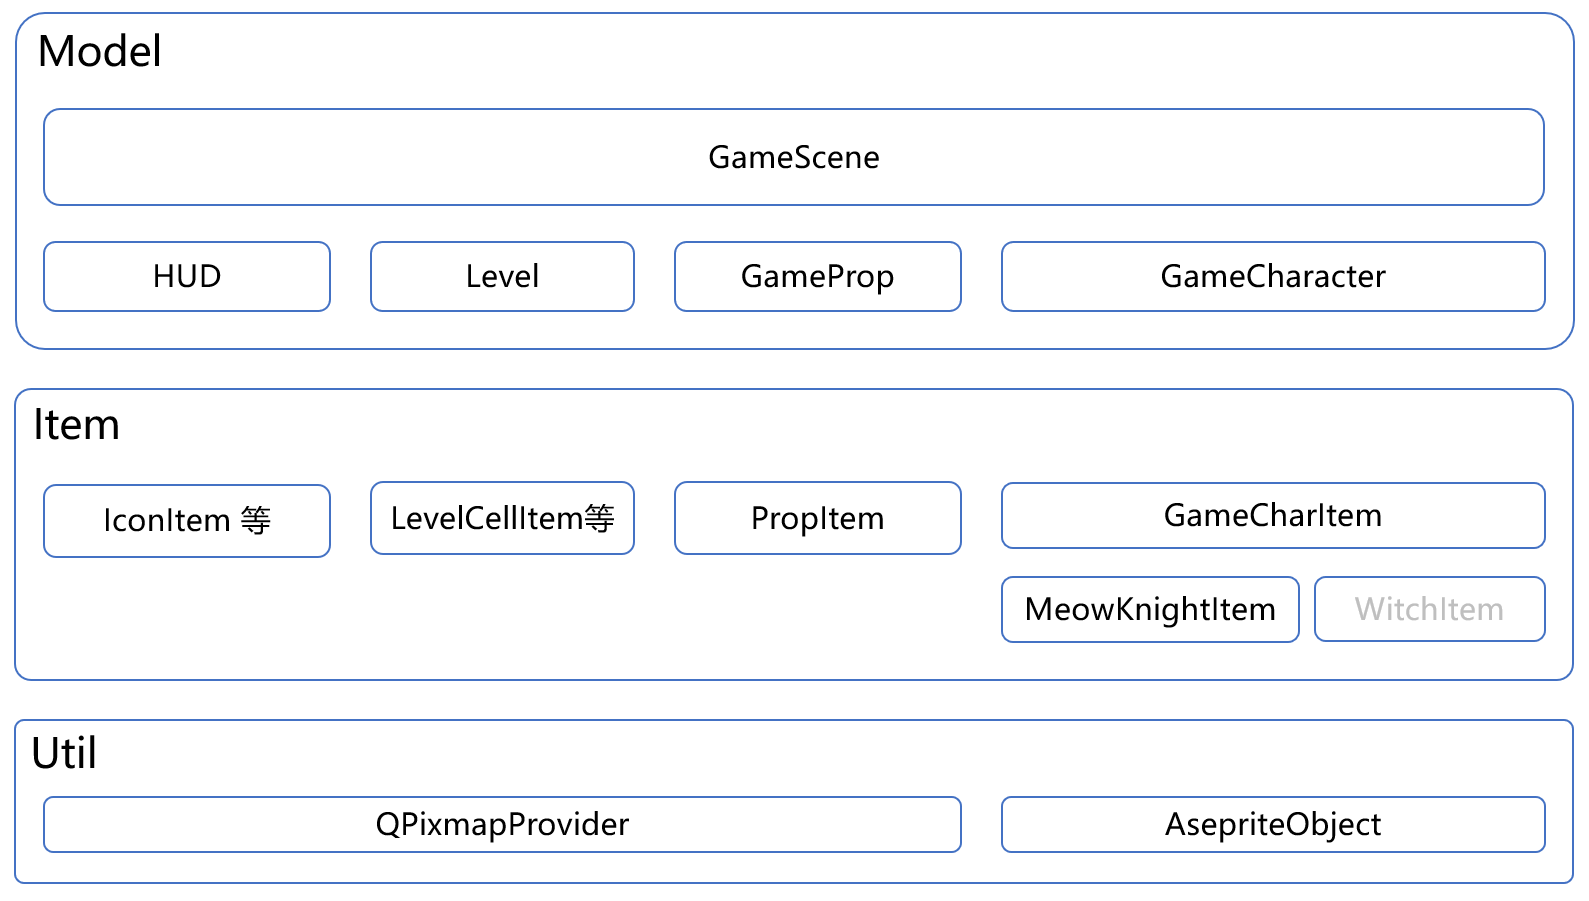
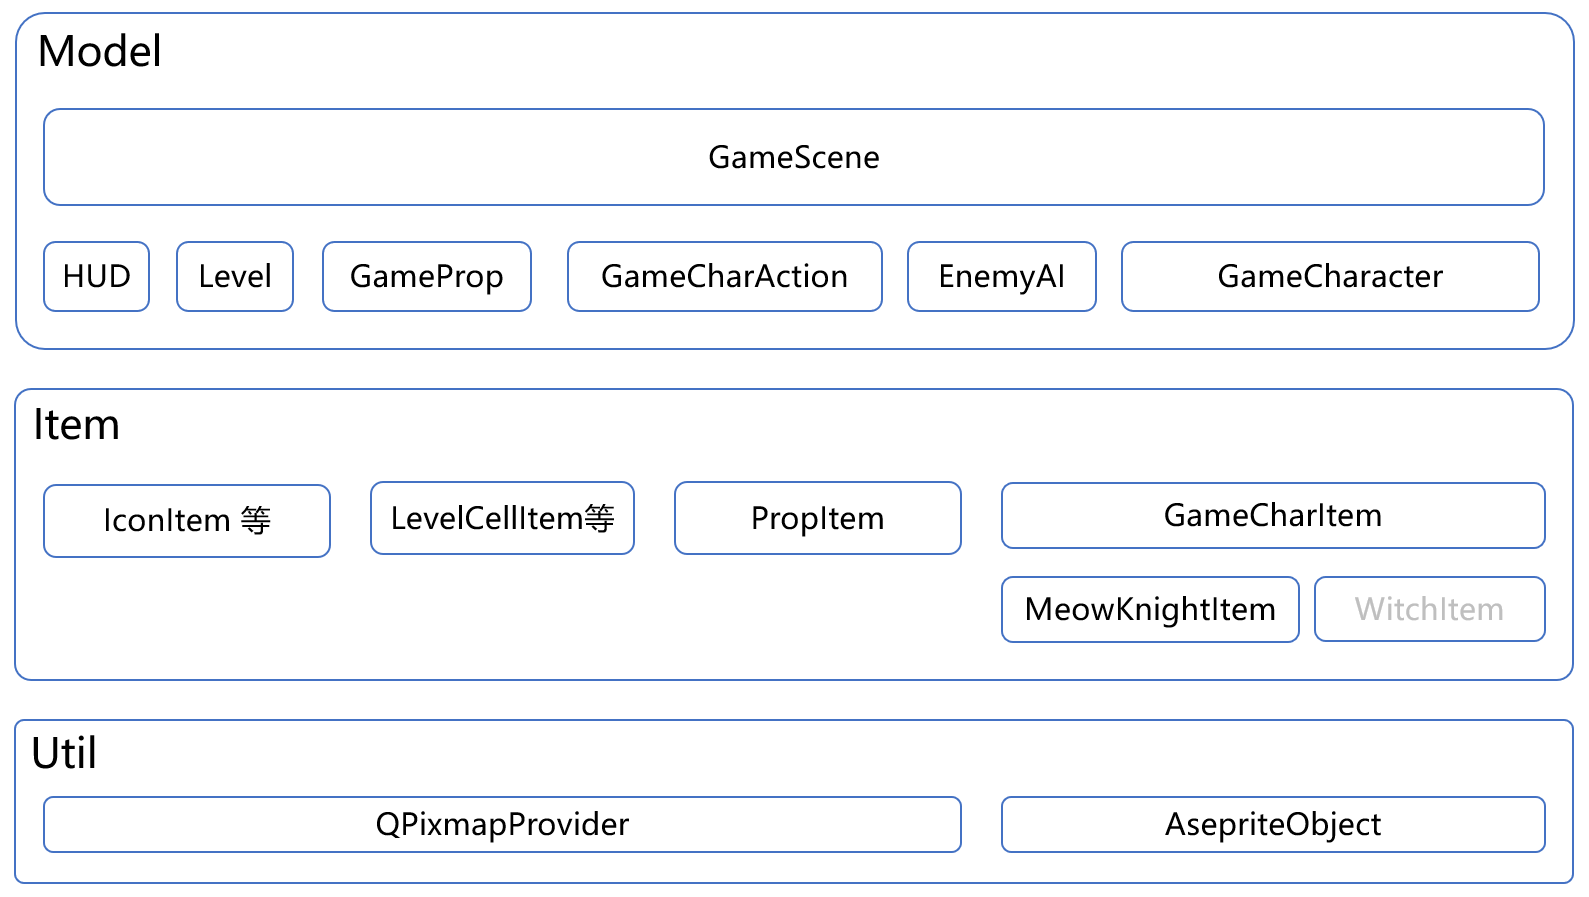
sync

diff --git a/doc/文档.md b/doc/文档.md
@@ -61,7 +61,7 @@ HUD指示：
 
 
 
-#### Util部分
+#### Util模块
 
 ##### QPixmapProvider
 
@@ -79,11 +79,201 @@ HUD指示：
 
 
 
-#### Item部分
+#### Item模块
+
+这个模块的所有对象继承自`QGrphicsItem`，部分继承了`QObject`以启用动画。
+
+这个模块是对基本图片资源的使用，支持动画，实现了`Model`所需要的函数，向`Model`模块提供服务。但是改模块并不关心各个图片在游戏中应该出现的展示大小和坐标位置，使用图片素材本身的大小和屏幕坐标。
+
+详细介绍如下：
+
+##### GameCharItem
+
+这个类是一个接口类，要求实现游戏角色所需的各种动画，包含如下接口/动画
+
+* idle：待机
+* moveTo：移动
+* attack：攻击
+* takeDamage：收到伤害
+* healed：得到治疗
+* death：死亡
+* dodge：闪避
+* setTowards：设置朝向
+
+
+
+实现这些接口的有：
+
+* MeowKnightItem：就是我们的猫猫骑士
+* ~~WhichItem~~：计划但还没有实现的女巫角色，有了猫还能没有女巫？
 
 
 
 
+
+##### PropItem
+
+地面上的生成物类，向`GameProp`类提供服务，目前支持的有：
+
+* 石头：<img src="pic/7.png">
+* 箱子：<img src="pic/8.png">
+* 治疗魔法石：<img src="pic/9.png">
+
+
+
+##### 向Level提供服务的类
+
+有两个类向地形`Level`类提供服务：
+
+* `LevelCellItem`：地形格子类，目前有如下两类格子：
+
+  * 草地：最普通的地形。<img src="pic/10.png">
+  * 石板：使角色减速。<img src="pic/11.png">
+
+* `CellIndicatorItem`：单元格指示类，用来指明要选择的格子。
+
+  <img src="pic/12.png">
+
+
+
+##### 向HUD提供服务的类
+
+包含一个按钮`ButtonItem`和图标`IconItem`。效果如下：
+
+<img src="pic/13.png">         <img src="pic/14.png">
+
+
+
+除了这个还有其他一些UI模块的类。
+
+
+
+### Model模块
+
+这一模块的大部分类继承自`QObject`，使用下层模块提供的服务，进行“游戏棋盘坐标”和“绘图坐标”转换、音效播放等操作，向`GameScene`提供服务。
+
+而`GameScene`继承自`QGraphicsScene`，表示游戏的一个“关卡”、“场景”，负责管理游戏中的所有逻辑。开始界面是一个特殊的`GameScene`。
+
+
+
+#### HUD
+
+“抬头显示”界面，展示状态和操作游戏。下图中的各个按钮都是`HUD`实现的：
+
+![](./pic/3.png)
+
+
+
+#### Level
+
+对游戏地形进行建模，虽然就是一个棋盘谈不上“地形”，但因为一开始想做成3D的，所以就把名字定为了`Level`，然后就失败了。
+
+这个类维护了一个游戏棋盘，提供了一些设置棋盘的方便函数。
+
+
+
+#### GameProp
+
+简单包装`PropItem`，进行游戏坐标和绘图坐标的转换。
+
+
+
+#### GameCharacter
+
+游戏角色类，维护角色生命值、攻击力、速度等游戏信息，包含移动、攻击等角色行为\函数，提供角色支持的操作等信息。
+
+维护角色信息如下：
+
+* 角色名
+* 角色：玩家或电脑
+* 生命值
+* 移速
+* 防御力
+* 攻击力
+* 幸运值：越高越容易闪避攻击
+
+
+
+实现行为如下：
+
+* 攻击
+* 受到攻击
+* 受到治疗
+* 移动到
+* 死亡
+* 闪避
+* 设置朝向
+
+
+
+提供操作信息，供HUD显示右侧操作按钮，支持如下：
+
+* 移动操作
+* 攻击操作
+
+
+
+提供属性标签信息，供HUD显示上方小图标，支持如下：
+
+* 是否是敌人，若是，有：![](./pic/15.png)
+* 是否减速，若是，有：![](./pic/16.png)
+* 是否死亡，若是，有：![](./pic/17.png)
+* 是否具有防御力，若是，有：![](./pic/18.png)
+
+
+
+#### GameCharAction
+
+由`GameCharacter`创建供`GameScene`使用，委托其管理接受用户对角色的操作。
+
+该类是抽闲类，包含如下接口：
+
+* process：开始用户操作
+* cancel：用户取消操作
+
+
+
+提供函数非接口函数如下：
+
+* endProcess，操作结束，改函数必须在操作正常结束后调用。
+
+* setAllowCancel，设置是否允许ESC键取消操作。
+
+
+
+属性如下：
+
+* buttomIten：关联的按钮对象
+
+
+
+#### EnemyAI
+
+敌人AI类。`GameScene`将操作敌人委托给这个类。
+
+这个类是抽象类，包含如下接口：
+
+* start，AI开始敌人的行动，由`GameScene`调用
+
+包含属性：
+
+* game：拥有这个AI的游戏场景
+
+信号：
+
+* AITurnFinished，要求在AI结束所有操作后发射该信号。`GameSene`收到后开始下一轮。
+
+
+
+实现`EnemyAI`的类：
+
+* BaseAI：基本的靠近攻击逻辑。
+
+
+
+
+
+  
 
 
 
